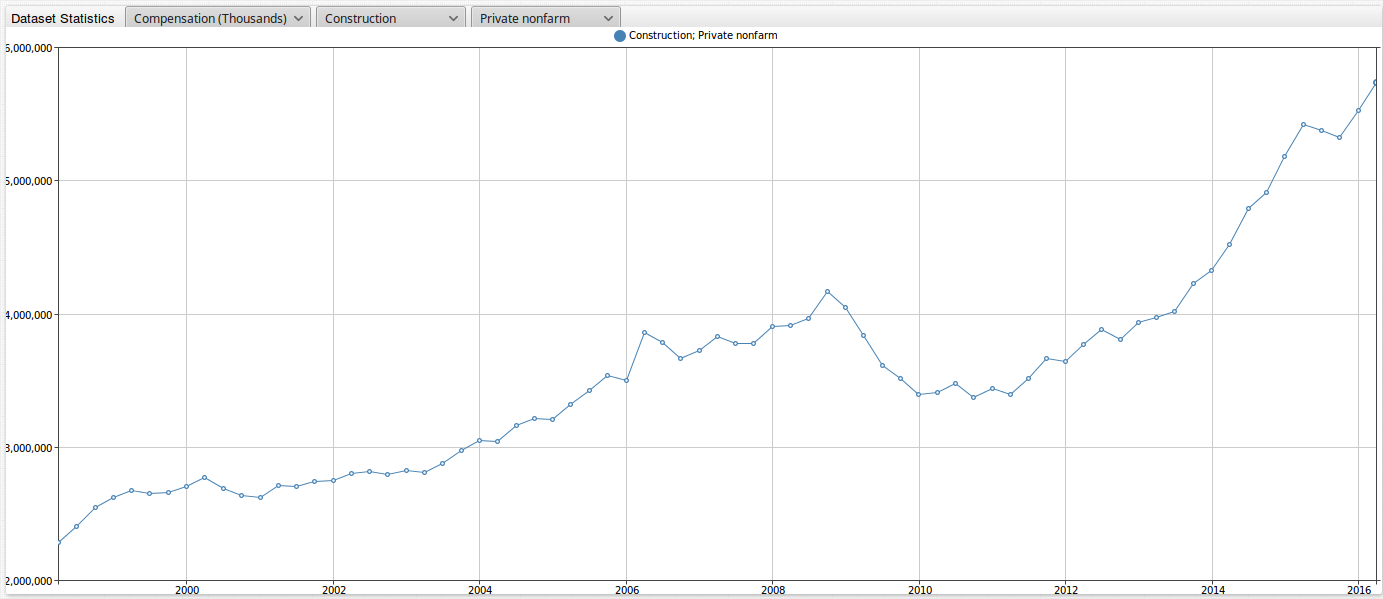
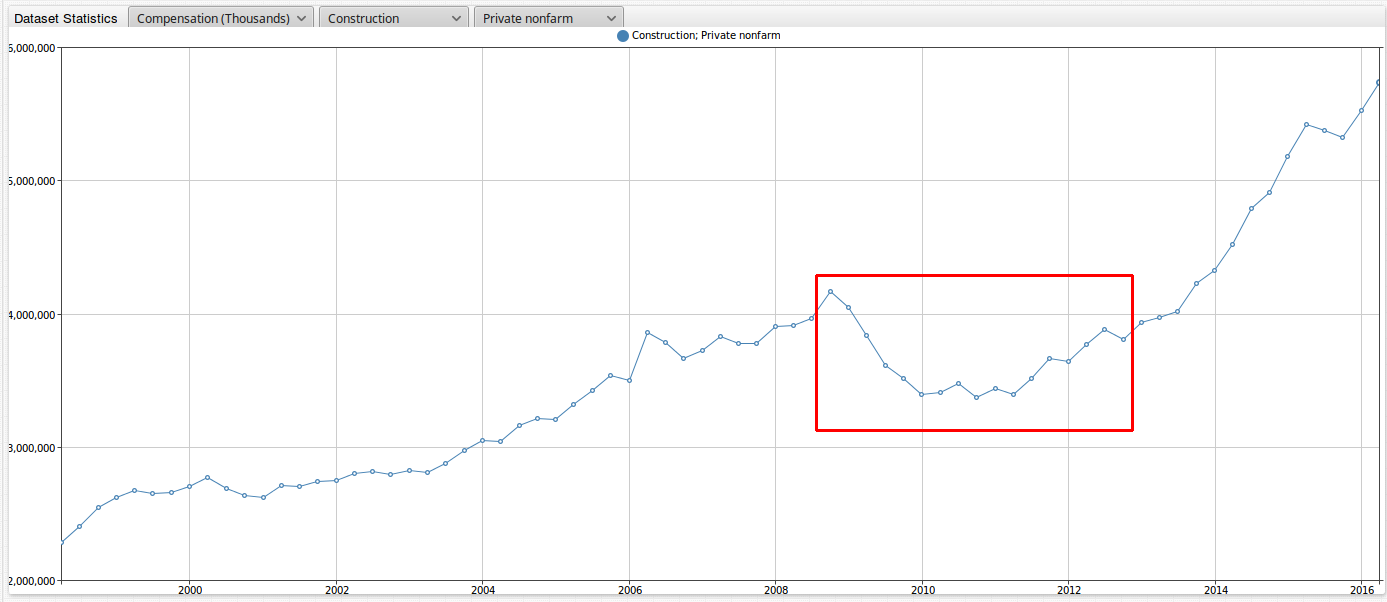
socrata_iowa_compensation

diff --git a/SocrataIowaCompensation/README.md b/SocrataIowaCompensation/README.md
@@ -64,8 +64,7 @@ Other Services (except public administration)
 
 The dataset from data.gov can be found here: [http://catalog.data.gov/dataset/employee-compensation-by-industry-in-iowa](http://catalog.data.gov/dataset/employee-compensation-by-industry-in-iowa)
 
-On the data.gov website, datasets can be downloaded as a CSV, RDF, JSON, or a XML file. To help interpret this data, the user is given the option of opening the CSV file with either [CartoDB](https://carto.com/)
-or [plotly](https://plot.ly/).
+On the data.gov website, datasets can be downloaded as a CSV, RDF, JSON, or a XML file. This dataset can easily be parsed into ATSD using the JSON file format.
 
 ### Axibase Time Series Database
 --------------------------------
@@ -97,11 +96,32 @@ The following three filters are applied to the default portal:
 * Third filter: allows the user to filter by industry groups (far, government and government enterprise, and private nonfarm). In the above case, all groups have been selected.
 
 The dataset can be sorted by industry group (farm, government and government enterprises, and private non-farm) or specific industry, and the user can easily toggle through 
-comparing different scenarios. The next 2 figures show outputs for the private non-farm industry group and construction, respectively.
+comparing different scenarios. 
 
-![Figure 2](Images/Figure2.png) 
+The below figure shows the output when **farm** is selected as the **[industry_type]** from the third filter. We can see that the total compensation for farming can fluctuates quite
+often. There does not seem to be a single pattern that repeats year over year, such as low amount of work in the winter (leading to low figures) and a high amount of work in the fall
+(leading to high figures). Rather, we can see that the farming industry is very sensitive to extraneous factors (such as bad weather), which can plunge the industry's overall numbers.      
+ 
+![Figure 7](Images/Figure7.png)
 
+The next figure shows the output when **government and government enterprises** is selected as the **[industry_type]** from the third filter. We can see that the 
+**federal, civilian** and **military** metrics are nearly constant and that **state and local** is experiencing steady growth. Unlike with the farming industry, we can see that 
+government institutions are less sensitive to extraneous factors (such as bead weather, a poor economy, or civil unrest).  
+
+![Figure 8](Images/Figure8.png)
+
+The below figure shows the output for the private non-farm industry group as a whole.
+
+![Figure 2](Images/Figure2.png)
+
+It appears that most of these metrics are on an upward trend, but it is somewhat difficult to tell. Let us sort for the metrics **Construction** and **Manufacturing**. These images 
+for these 2 outputs are shown below, respectively. We can see that both metrics were experiencing steady, upward growth until the late 2000's, where each both metric experienced a 
+sharp decline (as marked by the red boxes in the figures below). An extraneous factor at this time that may have contributed to this change was the poor world-wide economy, otherwise
+known as the "Great Recession".  
+ 
 ![Figure 3](Images/Figure3.png)
+
+![Figure 9](Images/Figure9.png)
 
 Here, you can explore the complete dataset for employee compensation by industry in Iowa:
 
@@ -110,8 +130,8 @@ Here, you can explore the complete dataset for employee compensation by industry
 ### A Deeper Look at Iowa's Economy
 -----------------------------------
 
-In order to provide context to the above dataset for employee compensation by industry in Iowa, we will now walk through adding additional datasets. By adding additional information, 
-we can see how the rise and fall of employee compensation corresponds to other metrics. For example, is the rise of employee compensation corresponds to a rise of the gross number 
+In order to provide context to the above dataset, we will now walk through adding additional datasets. By looking at additional information, 
+we can see how the rise and fall of employee compensation corresponds to other metrics. For example, does the rise of employee compensation correspond to a rise of the gross number 
 of employees in the sate, or is there another factor at play? With a decrease in employee compensation, will unemployment rates and benefits rise as a result? To look into these 
 questions, let us navigate to [https://data.iowa.gov](https://data.iowa.gov/). This site contains publicly available information pertaining to Iowa for fields such as the economy,
 education, health, and the environment, among many more fields. Let us begin by finding a dataset which provides information on the gross number of employees working in the state.
@@ -131,6 +151,10 @@ Below is an image of the dataset **Iowa Seasonally Adjusted Non-Farm Employment 
 the total number of employees (in thousands) per industry. 
 
 ![Figure 6](Images/Figure6.png)
+
+Here, you can explore the complete dataset for employee compensation by industry in Iowa:
+
+[![](Images/button.png)](https://apps.axibase.com/chartlab/1ac33603)
 
 Data is published for each of the following industry types: **Goods producing**, **Government**, and **Service providing**.  
 
@@ -163,6 +187,18 @@ The following three filters are applied to the default portal:
 * First filter: allows the user to sort by employee type. In the default portal, the only current option is to filter by thousands of employees. 
 * Second filter: allows the user to filter between 3 industry types. In the case above, all industry groups are selected. 
 * Third filter: allows the user to filter by a specific industry. In the default instance, all industries are selected.
+
+
+
+* ytnz-cckp - seasonally adjusted non-farm employment by month
+* n74v-z6ct - average monthly non-farm employment by year and category
+* jpje-kkb9 - unemployment insurance claims and payments (statewide - monthly)
+* njph-rx66 - unemployment insurance claims (statewide - weekly)
+* b38f-jgn3 - unemployment insurance benefit payments by industry 
+* yhbr-3t8a - unemployment insurance recipients and unemployment insurance benefit payments by county (Annual)
+* rmcb-sifx - benefits 
+* rigx-2vau - unemployment insurance initial claims by county
+* aeyn-twxp - unemployment insurance recipients and unemployment insurance benefit payments by county (Monthly)
 
 
 
